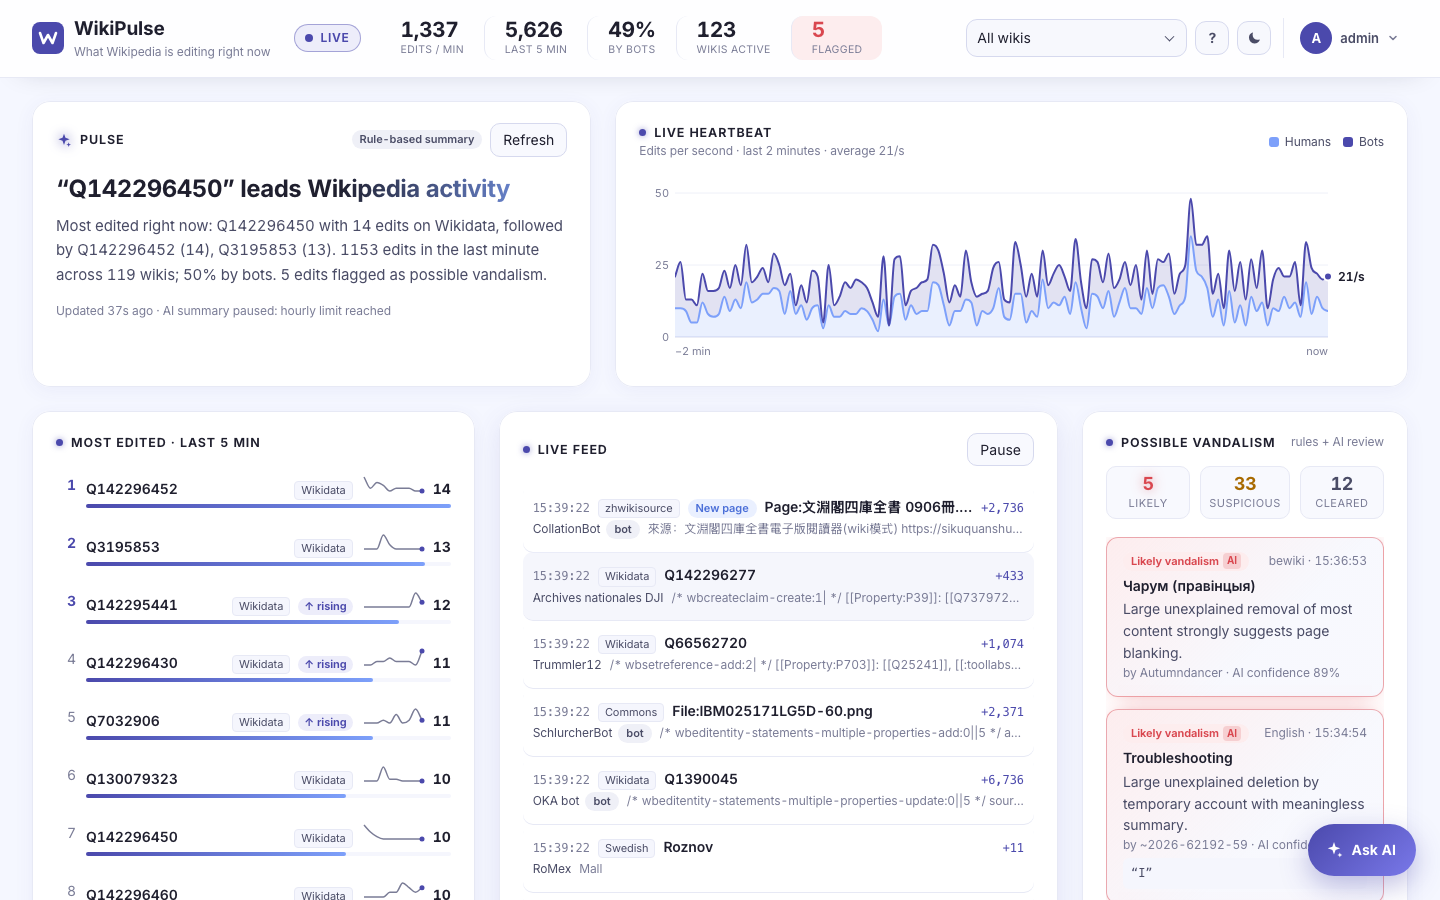
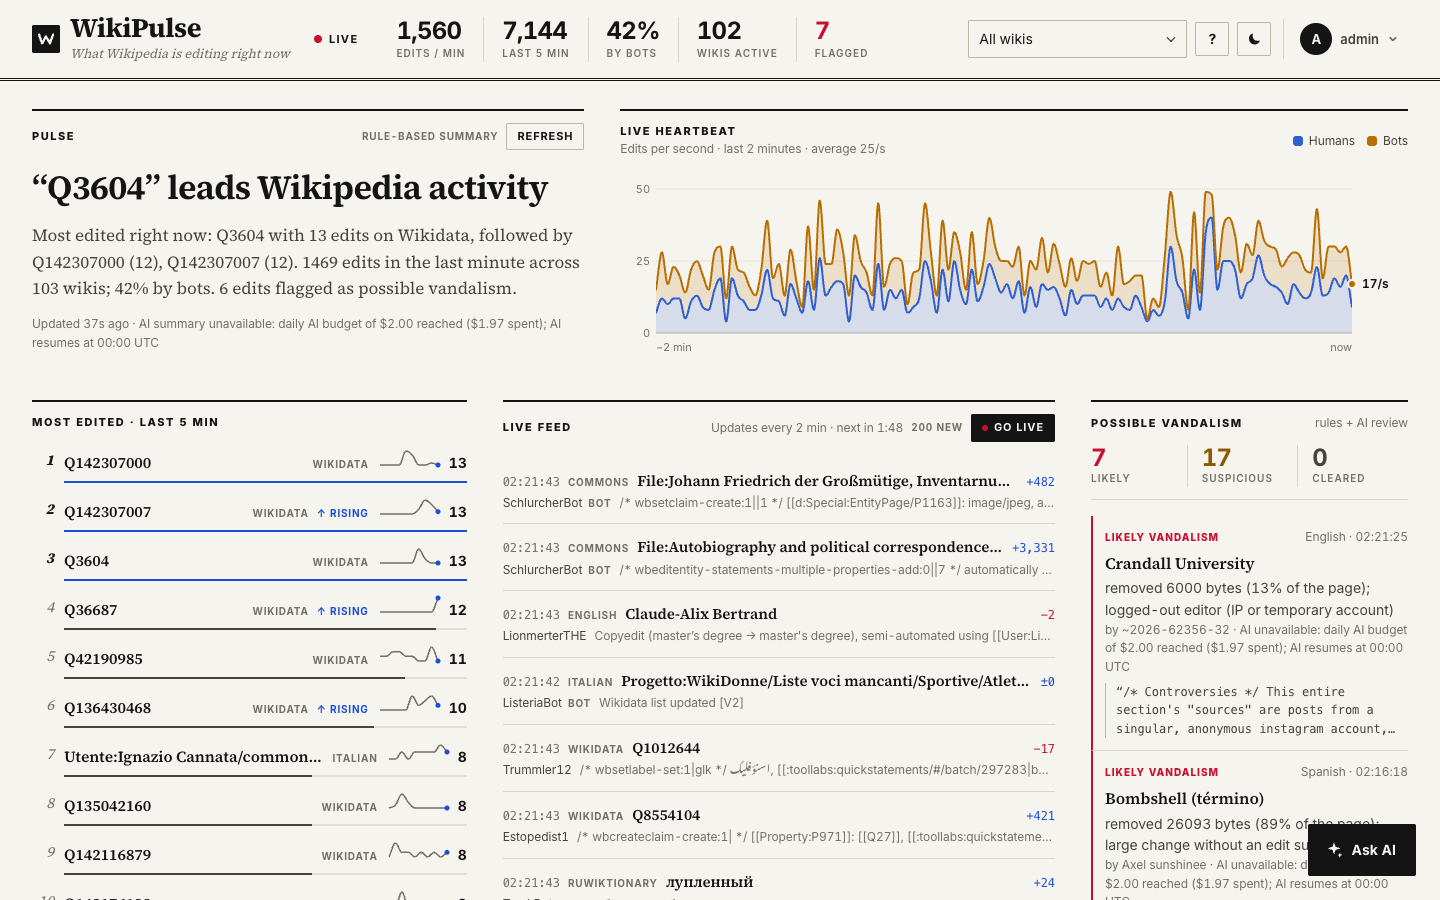
Update README and screenshot for the new design and feed

diff --git a/README.md b/README.md
@@ -76,13 +76,13 @@ npm run e2e        # or npm run e2e:open for the Cypress app
 | Edits per minute | `EditsPerMinuteChart.tsx` | Last 30 minutes, stacked by the 5 busiest wikis + Other |
 | Extra charts | `LiveHeartbeat.tsx`, `EditorMix.tsx`, `EditSizeChart.tsx`, `BusiestWikis.tsx`, sparklines in `TopPages.tsx` | Edits per second (humans vs bots, scrolling), who is editing, edit-size histogram, click-to-filter wiki bars, per-page trend + "rising" |
 | Top 10 pages in the last 5 minutes | `TopPages.tsx` | Per wiki, follows the filter |
-| Live feed with a filter by wiki | `LiveFeed.tsx`, `Header.tsx` | Filter is applied on the server to every panel. Edits trickle in smoothly, the feed holds while you hover, and can be paused |
+| Live feed with a filter by wiki | `LiveFeed.tsx`, `Header.tsx` | Filter is applied on the server to every panel. The feed starts paused and catches up every 2 minutes so it stays readable; Go live follows every edit (trickled in smoothly, held while you hover) |
 | Pulse summary (AI) | `backend/app/ai/pulse.py`, `PulseCard.tsx` | Rule-based fallback; AI only when trending changes |
 | Vandalism flag with a reason (AI) | `vandalism.py`, `ai/moderator.py`, `FlaggedEdits.tsx` | Rules first, AI second opinion |
 | Extra: login | `backend/app/auth.py`, `LoginPage.tsx`, `useAuth.ts` | One account from `.env`; signed HttpOnly SameSite=Strict session cookie; `/api` and `/ws` closed without it; failed logins throttled |
 | Extra: AI assistant | `backend/app/ai/assistant.py`, `AssistantChat.tsx`, `useAssistant.ts` | Chat panel ("Ask AI") that streams answers ChatGPT-style (NDJSON over fetch, Stop button) from the live dashboard data, in the user's language; declines questions that are not about the dashboard in one line; public text sent as escaped JSON; has its own hourly limit (30 calls, so background vandalism review cannot starve it) and shares the daily budget; falls back to answers from the numbers when AI is unavailable |
 | Extra: guided tour | `frontend/src/features/tour/` | 15-step walkthrough that spotlights each section on first sign-in; replay from the **?** button; keyboard (arrows / Esc) and mobile bottom-sheet support |
-| Tests | `backend/tests`, `frontend/src/**/*.test.*`, `frontend/cypress/e2e` | 231 back end, 71 front end, 29 end-to-end |
+| Tests | `backend/tests`, `frontend/src/**/*.test.*`, `frontend/cypress/e2e` | 231 back end, 78 front end, 29 end-to-end |
 | Optional: Docker | `docker-compose.yml` | nginx serves the dashboard and proxies `/api` and `/ws` |
 | Optional: deployed demo | `Dockerfile`, `render.yaml` | One Render web service; the back end serves the built dashboard |
 | Optional: E2E UI test | `frontend/cypress/e2e/*.cy.ts` | Cypress (reason below) |
@@ -152,7 +152,7 @@ frontend/
     features/auth/      login page and session hook
     features/profile/   account menu (avatar dropdown with Sign out)
     lib/                formatting, safeUrl, reduced-motion check
-    styles/             CSS split by area, imported in order from index.css
+    styles/             CSS split by area, imported in order from index.css; editorial.css sets the look
   cypress/              Cypress end-to-end tests against the real back end
 ```
 
@@ -319,14 +319,14 @@ I tested where bugs would be expensive or hard to see:
   every error path without a key or network. A test also checks both prompt
   schemas meet OpenAI strict-mode rules.
 - **WebSocket end to end:** the replay source drives the real app.
-- **Front end:** the reducer (de-duplication, pause, late AI verdicts), XSS
+- **Front end:** the reducer (de-duplication, pause and the 2-minute catch-up, late AI verdicts), XSS
   rendering, `javascript:` links, and components.
 - **Browser E2E:** Cypress runs the real back end on the sample (AI off) and the
   real dashboard in a real browser, one spec per area:
   - `auth.cy.ts`: closed routes and API without a session, wrong password,
     sign in, reload, sign out, account menu, rate-limit and network errors.
-  - `dashboard.cy.ts`: header numbers, Pulse and Refresh, top pages, feed and
-    Pause, every chart (hover tooltip, screen-reader tables), flags, the wiki
+  - `dashboard.cy.ts`: header numbers, Pulse and Refresh, top pages, the feed
+    (paused with a countdown, Go live, Pause), every chart (hover tooltip, screen-reader tables), flags, the wiki
     filter from the menu and from the busiest wikis, dark theme, phone width,
     and that the planted XSS payloads are shown as text and never execute.
   - `assistant.cy.ts`: suggestions, answers from live data, panel questions,
